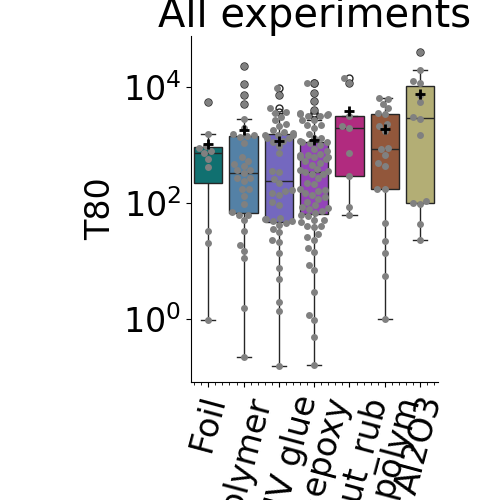
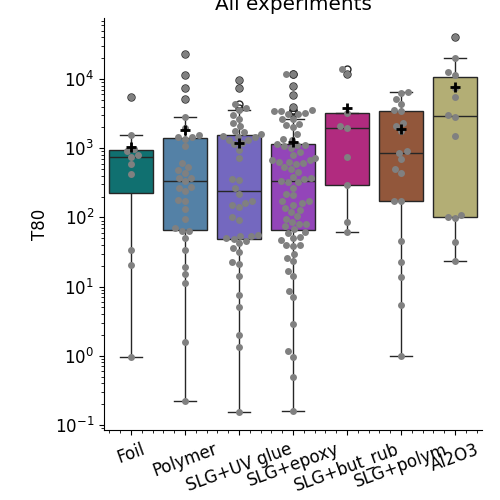
fonts

diff --git a/Provskite_Encapsulation_Comparison.py b/Provskite_Encapsulation_Comparison.py
@@ -234,7 +234,7 @@ if __name__ == '__main__':
     for i in range(6): # runs on all the sub-divisions
         data_for_box_plot = pd.concat([Foils_T80[i],Polymer_T80[i], Glass_UV_glue_T80[i], Glass_epoxy_T80[i],Glass_butyl_rubber_T80[i],Glass_polymer_T80[i],Al2O3_T80[i]], axis =1)  # horizontal_concat
         data_for_box_plot=data_for_box_plot.set_axis(["Foil","Polymer","SLG+UV glue","SLG+epoxy","SLG+but_rub", "SLG+polym", "Al2O3"], axis="columns")
-        plt.rcParams.update({'font.size': 24})
+        plt.rcParams.update({'font.size': 12})
         seaborn.catplot(x="variable", y="value", data=pd.melt(data_for_box_plot.dropna(how= "all", axis=1)), kind="box",palette=my_colors)
         seaborn.swarmplot(x='variable', y='value', data=pd.melt(data_for_box_plot.dropna(how= "all", axis=1)), color="gray")
         seaborn.pointplot(data=pd.melt(data_for_box_plot.dropna(how= "all", axis=1)), x="variable", y="value", estimator=np.mean,
@@ -242,7 +242,7 @@ if __name__ == '__main__':
         plt.ylabel("T80")
         plt.yscale('log')
         plt.minorticks_on()
-        plt.xticks(rotation=75)
+        plt.xticks(rotation=20)
         plt.xlabel("")
         plt.title(Graph_titles[i])
         frequency_table.append(['num of experiments'+Graph_titles[i],len(Foils_logT80[i]), len(Polymer_logT80[i]), len(Glass_UV_glue_logT80[i]), len(Glass_epoxy_logT80[i]),len(Glass_butyl_rubber_logT80[i]), len(Glass_polymer_logT80[i]),
